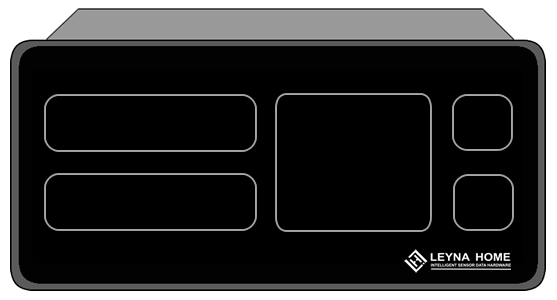
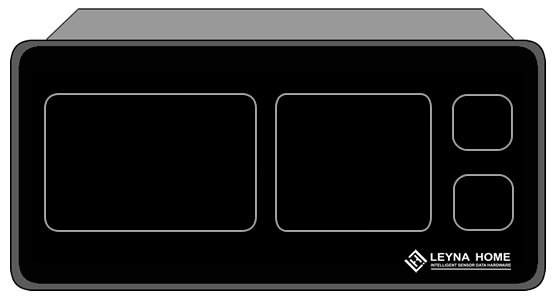
Actualiza posiciones panel

diff --git a/src/components/iot-panel-card.tsx b/src/components/iot-panel-card.tsx
@@ -1632,7 +1632,7 @@ function LegacyThermostatPanel({
   const displayBackgroundImage = useMemo(() => {
     if (activeSkin === 'rele') return '/iot/PANEL_RELE/DISPLAY_FONDO_RELE_1OFF.png';
     if (activeSkin === 'foto') return '/iot/PANEL_FOTO/DISPLAY_FOTO.png';
-    if (activeSkin === 'panel_2temp') return '/iot/PANEL_FOTO/DISPLAY_FOTO.png';
+    if (activeSkin === 'panel_2temp') return '/iot/PANEL_2TEMP/DISPLAY_FOTO_2TEMP.png';
     if (activeSkin === 'inout') return '/iot/PANEL_INOUT/DISPLAY_FONDO_INOUT2.png';
     return '/iot/lh1t/images/DISPLAY_FONDO_TEMP.png';
   }, [activeSkin]);
